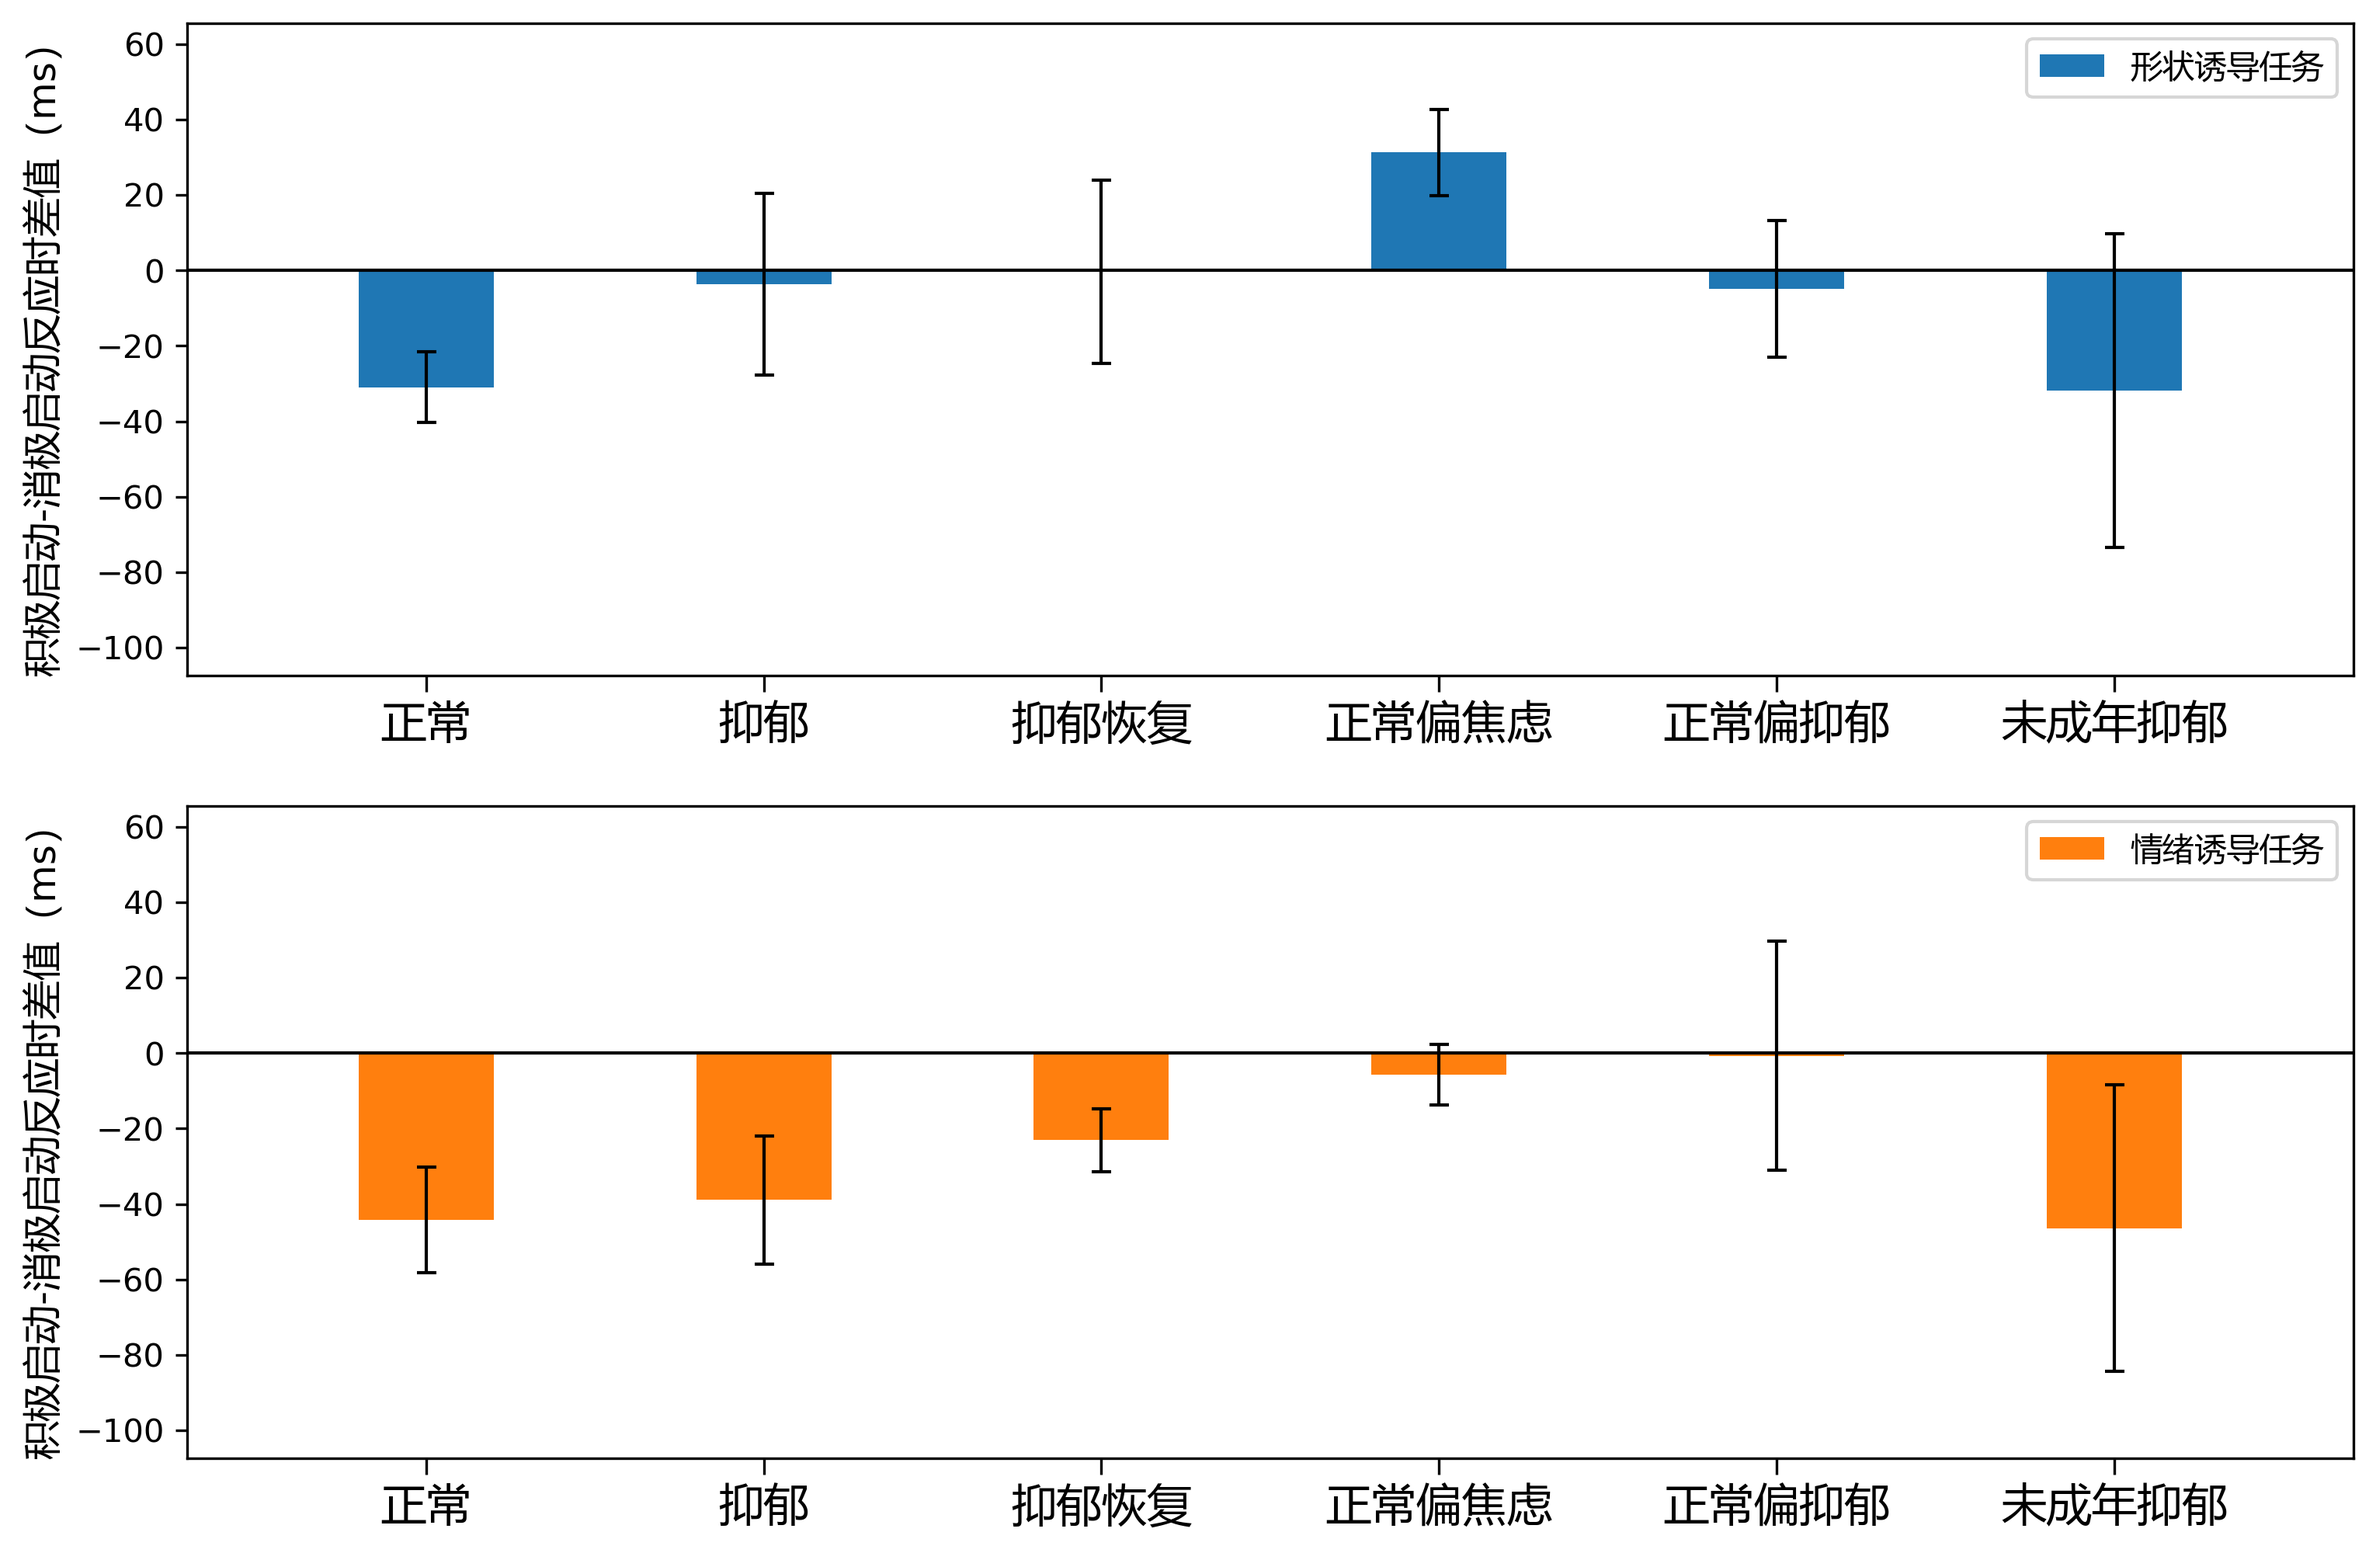
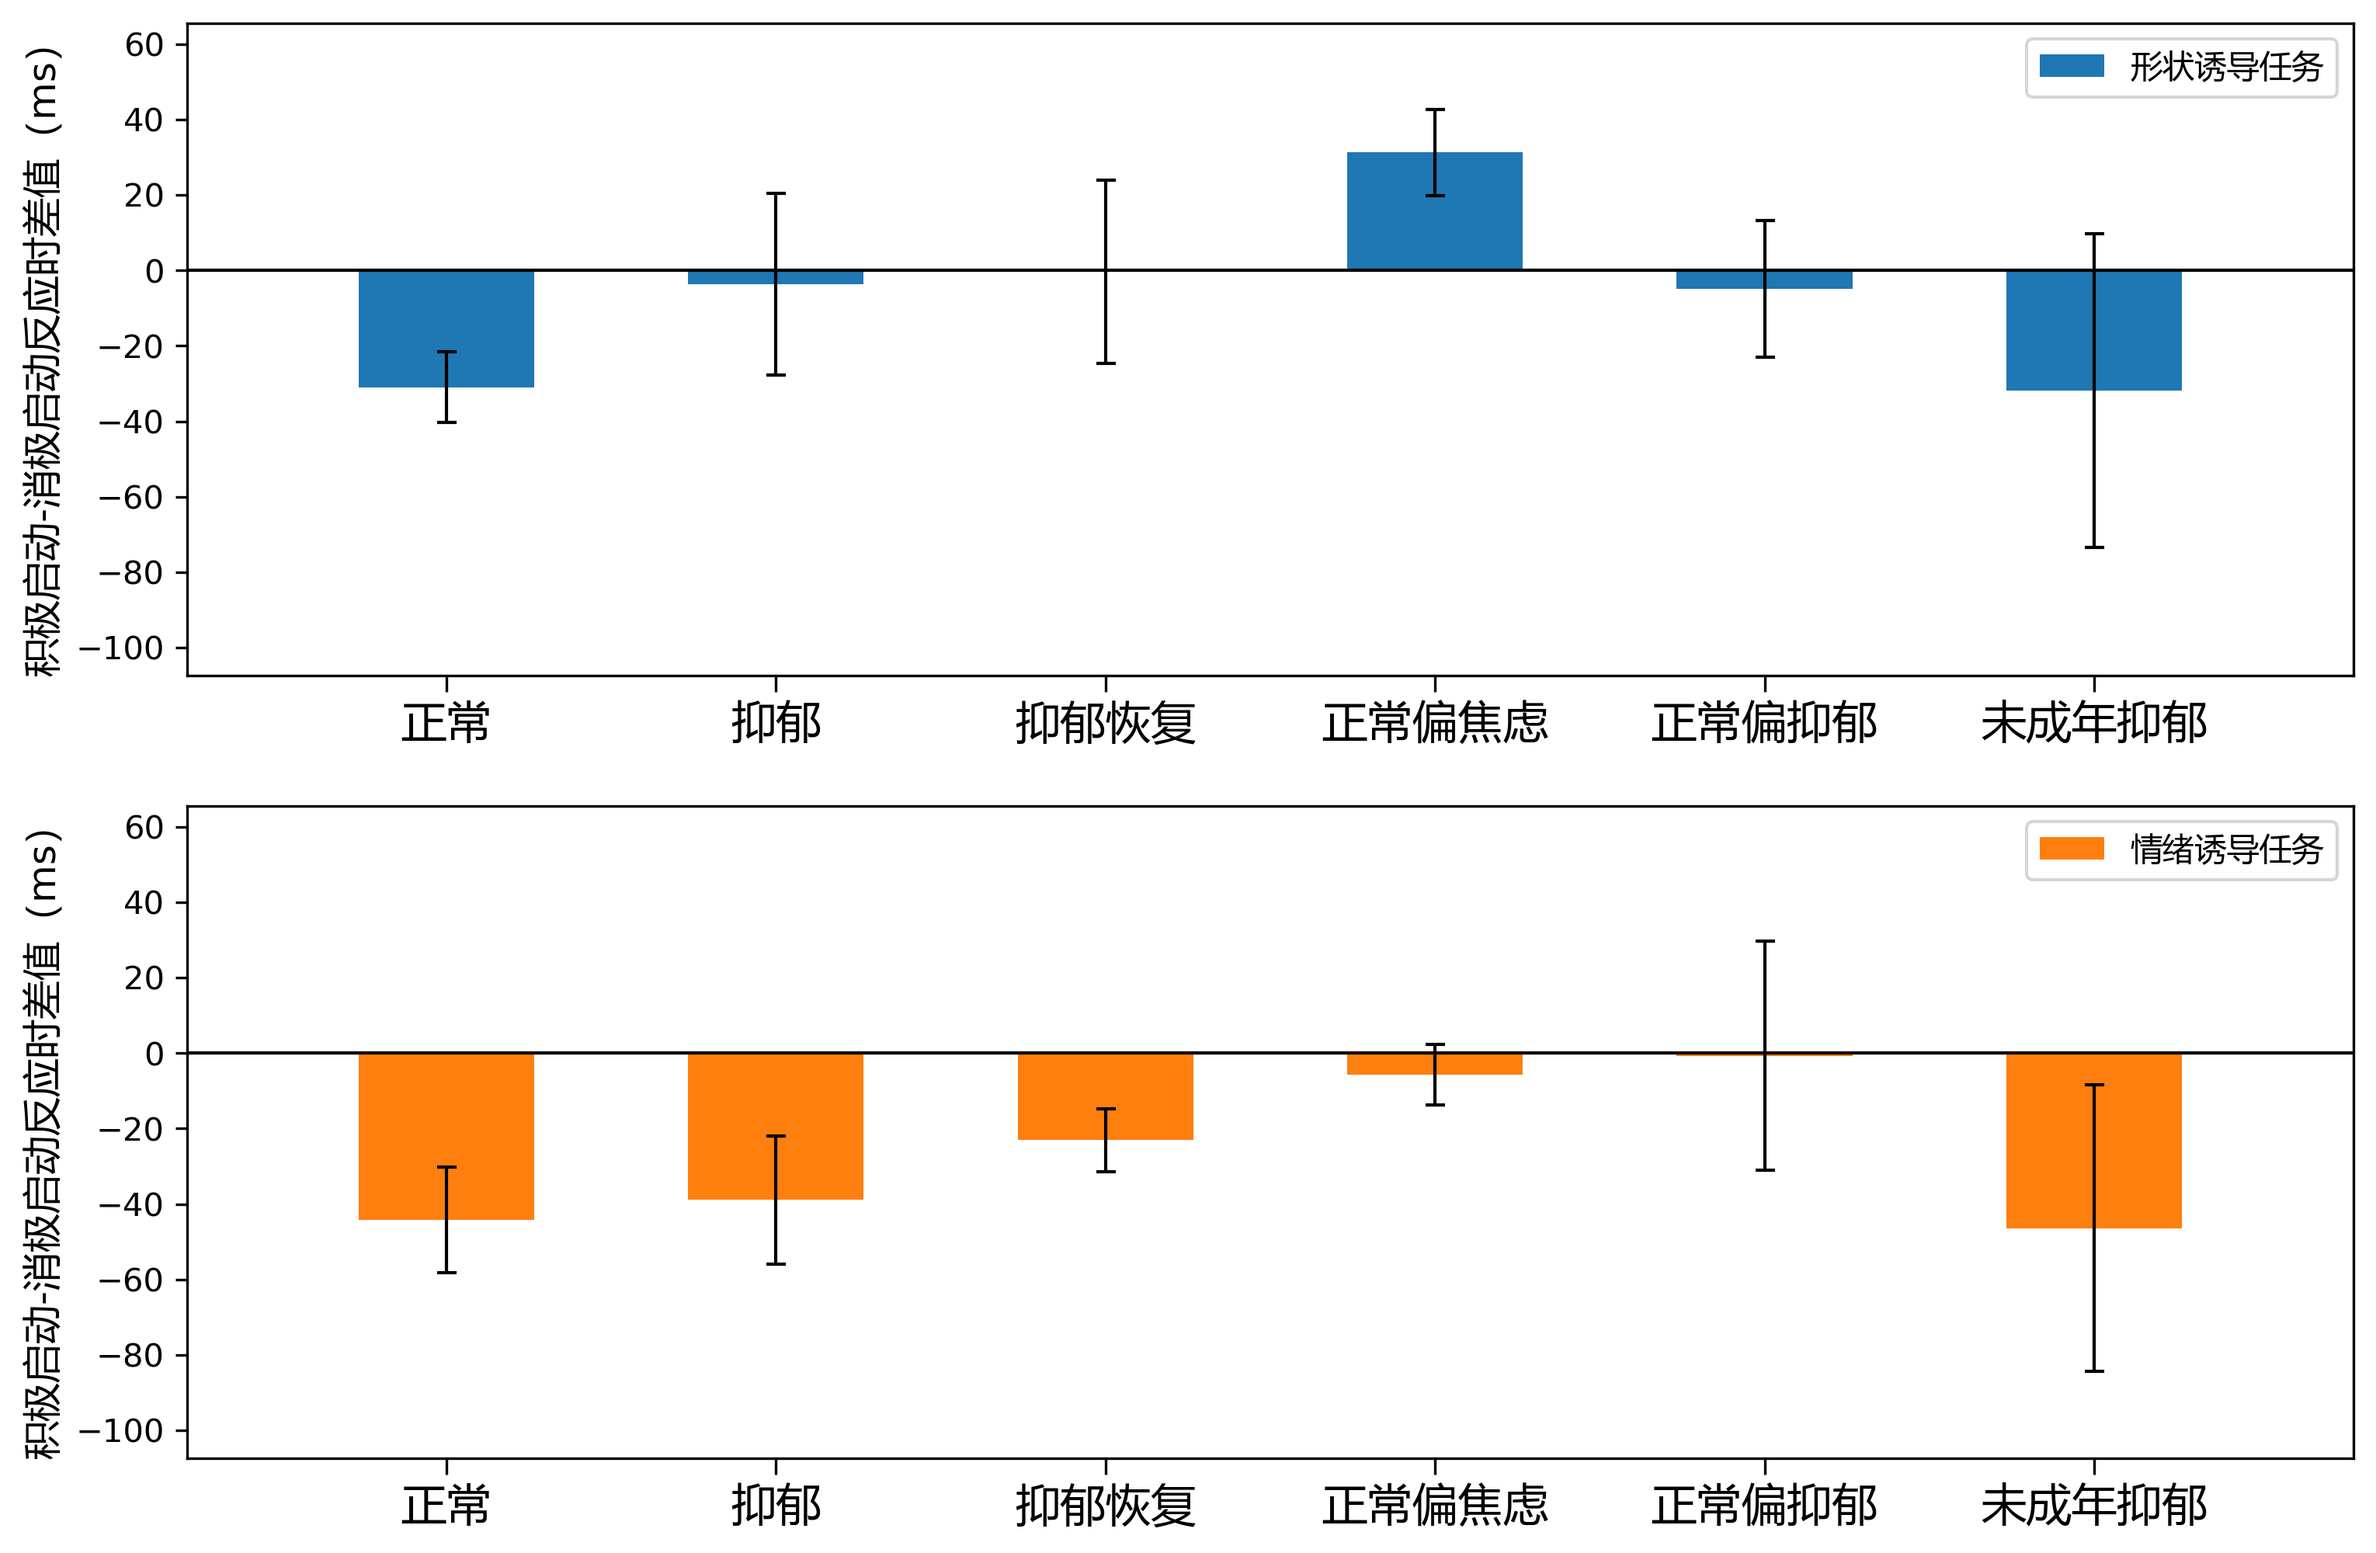
lots of fiures

diff --git a/plot_2nd.py b/plot_2nd.py
@@ -117,7 +117,7 @@ def plotFigure2():
         allDataEmotion[group] = dfGroup['emotion_pos-neg'].values
 
     y_min, y_max = (0, 0)
-    bar_width = 0.6
+    bar_width = 0.8
     
     for i, group in enumerate(groups):
         dataEmotion = allDataEmotion[group]
@@ -170,12 +170,267 @@ def plotFigure2():
     fig.savefig(os.path.join(FIGURE_PATH, 'figure2.png'), bbox_inches='tight')
     plt.close(fig)
 
+
+def plotFigure3():
+    fig = figure(figsize=(12,8))
+    ax1 = fig.add_subplot(211)
+    ax2 = fig.add_subplot(212)
+    groups = df['group'].unique()
+    allDataShape = {}
+    allDataEmotion = {}
+    
+    groups = np.setdiff1d(groups, ['抑郁恢复','未成年抑郁'])
+
+    for group in groups:
+        dfGroup = df[df['group'] == group]
+        allDataShape[group] = dfGroup['shape_pos-neg'].values
+        allDataEmotion[group] = dfGroup['emotion_pos-neg'].values
+
+    y_min, y_max = (0, 0)
+    bar_width = 0.5
+    
+    for i, group in enumerate(groups):
+        dataEmotion = allDataEmotion[group]
+        dataShape = allDataShape[group]
+        
+        # Calculate means and standard errors
+        shape_mean = np.mean(dataShape)
+        shape_error = np.std(dataShape) / np.sqrt(len(dataShape))
+        emotion_mean = np.mean(dataEmotion)
+        emotion_error = np.std(dataEmotion) / np.sqrt(len(dataEmotion))
+        if i== 0:
+            # Create bar plots instead of violin plots
+            ax1.bar(i*1.2, shape_mean, width=bar_width, yerr=shape_error, color='#1f77b4', capsize=3,error_kw = {'linewidth': 1.0}, label='形状诱导任务')
+            ax2.bar(i*1.2, emotion_mean, width=bar_width, yerr=emotion_error, color='#ff7f0e', capsize=3, error_kw = {'linewidth': 1.0}, label='情绪诱导任务')
+        else:
+            ax1.bar(i*1.2, shape_mean, width=bar_width, yerr=shape_error, color='#1f77b4', capsize=3,error_kw = {'linewidth': 1.0})
+            ax2.bar(i*1.2, emotion_mean, width=bar_width, yerr=emotion_error, color='#ff7f0e', capsize=3,error_kw = {'linewidth': 1.0})
+
+        y_min = min(y_min, shape_mean - shape_error, emotion_mean - emotion_error)
+        y_max = max(y_max, shape_mean + shape_error, emotion_mean + emotion_error)
+
+    ax1.legend()
+    ax2.legend()
+
+    for ax in [ax1, ax2]:
+        # Add horizontal line at y=0
+        ax.axhline(y=0, color='black', linestyle='-', linewidth=1.0)
+        
+        # Hide top, right and bottom spines
+        # ax.spines['top'].set_visible(False)
+        # ax.spines['right'].set_visible(False)
+        # ax.spines['bottom'].set_visible(False)
+        
+
+        ax.set_xticks([i*1.2 for i in range(len(groups))])
+        ax.set_xticklabels(groups, fontdict={'size': 14})
+        ax.tick_params(axis='x', which='both', length=5, color="#000000")
+        # ax.set_title('情绪诱导任务时阈下启动的反应时差值', fontdict={'size': 16}, pad=5)
+
+        # ax.set_title('形状诱导任务时阈下启动的反应时差值', fontdict={'size': 16}, pad=5)
+
+        x_min, x_max = ax.get_xlim()
+        dx = x_max - x_min
+        ax.set_xlim(x_min - 0.04*dx, x_max + 0.04*dx)
+        dy = y_max-y_min
+        ax.set_ylim(y_min - 0.18*dy, y_max + 0.18*dy)
+        ax.set_ylabel('积极启动-消极启动反应时差值（ms）', fontdict={'size': 12})
+    
+
+    fig.savefig(os.path.join(FIGURE_PATH, 'figure3.png'), bbox_inches='tight')
+    plt.close(fig)
+
+def plotFigure4():
+    fig = figure(figsize=(12,8))
+    ax1 = fig.add_subplot(211)
+    ax2 = fig.add_subplot(212)
+    groups = df['group'].unique()
+    allDataShapePos = {}
+    allDataShapeNeg = {}
+    
+    groups = np.setdiff1d(groups, ['抑郁恢复','未成年抑郁'])
+
+    for group in groups:
+        dfGroup = df[df['group'] == group]
+        allDataShapePos[group] = dfGroup['shapePosPrimeIndex'].values
+        allDataShapeNeg[group] = dfGroup['shapeNegPrimeIndex'].values
+
+    y_min, y_max = (0, 0)
+    bar_width = 0.6
+    
+    for i, group in enumerate(groups):
+        dataShapeNeg = allDataShapeNeg[group]
+        dataShapePos = allDataShapePos[group]
+        
+        # Calculate means and standard errors
+        shapePos_mean = np.mean(dataShapePos)
+        shapePos_error = np.std(dataShapePos) / np.sqrt(len(dataShapePos))
+        ShapeNeg_mean = np.mean(dataShapeNeg)
+        ShapeNeg_error = np.std(dataShapeNeg) / np.sqrt(len(dataShapeNeg))
+        if i== 0:
+            # Create bar plots instead of violin plots
+            ax1.bar(i*1.2, shapePos_mean, width=bar_width, yerr=shapePos_error, color='#1f77b4', capsize=3,error_kw = {'linewidth': 1.0}, label='积极启动')
+            ax2.bar(i*1.2, ShapeNeg_mean, width=bar_width, yerr=ShapeNeg_error, color='#ff7f0e', capsize=3, error_kw = {'linewidth': 1.0}, label='消极启动')
+        else:
+            ax1.bar(i*1.2, shapePos_mean, width=bar_width, yerr=shapePos_error, color='#1f77b4', capsize=3,error_kw = {'linewidth': 1.0})
+            ax2.bar(i*1.2, ShapeNeg_mean, width=bar_width, yerr=ShapeNeg_error, color='#ff7f0e', capsize=3,error_kw = {'linewidth': 1.0})
+
+        y_min = min(y_min, shapePos_mean - shapePos_error, ShapeNeg_mean - ShapeNeg_error)
+        y_max = max(y_max, shapePos_mean + shapePos_error, ShapeNeg_mean + ShapeNeg_error)
+
+    ax1.legend()
+    ax2.legend()
+
+    for ax in [ax1, ax2]:
+        # Add horizontal line at y=0
+        ax.axhline(y=0, color='black', linestyle='-', linewidth=1.0)
+        
+        # Hide top, right and bottom spines
+        # ax.spines['top'].set_visible(False)
+        # ax.spines['right'].set_visible(False)
+        # ax.spines['bottom'].set_visible(False)
+        
+
+        ax.set_xticks([i*1.2 for i in range(len(groups))])
+        ax.set_xticklabels(groups, fontdict={'size': 14})
+        ax.tick_params(axis='x', which='both', length=5, color="#000000")
+        # ax.set_title('情绪诱导任务时阈下启动的反应时差值', fontdict={'size': 16}, pad=5)
+
+        # ax.set_title('形状诱导任务时阈下启动的反应时差值', fontdict={'size': 16}, pad=5)
+
+        x_min, x_max = ax.get_xlim()
+        dx = x_max - x_min
+        ax.set_xlim(x_min - 0.04*dx, x_max + 0.04*dx)
+        dy = y_max-y_min
+        ax.set_ylim(y_min - 0.18*dy, y_max + 0.18*dy)
+    ax1.set_ylabel('形状诱导任务积极阈下启动效应', fontdict={'size': 12})
+    ax2.set_ylabel('形状诱导任务消极阈下启动效应', fontdict={'size': 12})
+
+    fig.savefig(os.path.join(FIGURE_PATH, 'figure4.png'), bbox_inches='tight')
+    plt.close(fig)
+
+def plotFigure5():
+    fig = figure(figsize=(12,8))
+    ax1 = fig.add_subplot(211)
+    ax2 = fig.add_subplot(212)
+    groups = df['group'].unique()
+    allDataEmotionPos = {}
+    allDataEmotionNeg = {}
+    
+    groups = np.setdiff1d(groups, ['抑郁恢复','未成年抑郁'])
+
+    for group in groups:
+        dfGroup = df[df['group'] == group]
+        allDataEmotionPos[group] = dfGroup['emoPosPrimeIndex'].values
+        allDataEmotionNeg[group] = dfGroup['emoNegPrimeIndex'].values
+
+    y_min, y_max = (0, 0)
+    bar_width = 0.6
+    
+    for i, group in enumerate(groups):
+        dataEmotionNeg = allDataEmotionNeg[group]
+        dataEmotionPos = allDataEmotionPos[group]
+        
+        # Calculate means and standard errors
+        EmotionPos_mean = np.mean(dataEmotionPos)
+        EmotionPos_error = np.std(dataEmotionPos) / np.sqrt(len(dataEmotionPos))
+        EmotionNeg_mean = np.mean(dataEmotionNeg)
+        EmotionNeg_error = np.std(dataEmotionNeg) / np.sqrt(len(dataEmotionNeg))
+        if i== 0:
+            # Create bar plots instead of violin plots
+            ax1.bar(i*1.2, EmotionPos_mean, width=bar_width, yerr=EmotionPos_error, color='#1f77b4', capsize=3,error_kw = {'linewidth': 1.0}, label='积极启动')
+            ax2.bar(i*1.2, EmotionNeg_mean, width=bar_width, yerr=EmotionNeg_error, color='#ff7f0e', capsize=3, error_kw = {'linewidth': 1.0}, label='消极启动')
+        else:
+            ax1.bar(i*1.2, EmotionPos_mean, width=bar_width, yerr=EmotionPos_error, color='#1f77b4', capsize=3,error_kw = {'linewidth': 1.0})
+            ax2.bar(i*1.2, EmotionNeg_mean, width=bar_width, yerr=EmotionNeg_error, color='#ff7f0e', capsize=3,error_kw = {'linewidth': 1.0})
+
+        y_min = min(y_min, EmotionPos_mean - EmotionPos_error, EmotionNeg_mean - EmotionNeg_error)
+        y_max = max(y_max, EmotionPos_mean + EmotionPos_error, EmotionNeg_mean + EmotionNeg_error)
+
+    ax1.legend()
+    ax2.legend()
+
+    for ax in [ax1, ax2]:
+        # Add horizontal line at y=0
+        ax.axhline(y=0, color='black', linestyle='-', linewidth=1.0)
+        
+        # Hide top, right and bottom spines
+        # ax.spines['top'].set_visible(False)
+        # ax.spines['right'].set_visible(False)
+        # ax.spines['bottom'].set_visible(False)
+        
+
+        ax.set_xticks([i*1.2 for i in range(len(groups))])
+        ax.set_xticklabels(groups, fontdict={'size': 14})
+        ax.tick_params(axis='x', which='both', length=5, color="#000000")
+        # ax.set_title('情绪诱导任务时阈下启动的反应时差值', fontdict={'size': 16}, pad=5)
+
+        # ax.set_title('形状诱导任务时阈下启动的反应时差值', fontdict={'size': 16}, pad=5)
+
+        x_min, x_max = ax.get_xlim()
+        dx = x_max - x_min
+        ax.set_xlim(x_min - 0.04*dx, x_max + 0.04*dx)
+        dy = y_max-y_min
+        ax.set_ylim(y_min - 0.18*dy, y_max + 0.18*dy)
+    ax1.set_ylabel('情绪诱导任务积极阈下启动效应', fontdict={'size': 12})
+    ax2.set_ylabel('情绪诱导任务消极阈下启动效应', fontdict={'size': 12})
+
+    fig.savefig(os.path.join(FIGURE_PATH, 'figure5.png'), bbox_inches='tight')
+    plt.close(fig)
+
+def plotCorrelation():
+    import seaborn as sns
+    import matplotlib.pyplot as plt
+
+    from scipy.stats import pearsonr
+
+    scales = ['shape_pos-neg', 'emotion_pos-neg', 'shapePosPrimeIndex', 'shapeNegPrimeIndex', 'emoPosPrimeIndex', 'emoNegPrimeIndex', 'anxiety', 'depression', 'hamd']
+
+    # 创建 PairGrid
+    g = sns.PairGrid(df[scales])
+
+    # 在下三角绘制散点图并添加趋势线和置信区间
+    g.map_lower(sns.regplot, scatter_kws={'alpha': 0.6}, line_kws={'color': '#A55F89'})
+
+    # 在对角线绘制核密度估计图
+    g.map_diag(sns.kdeplot, fill=True)
+
+    # 在上三角标注相关系数和显著性水平
+    def corr_func(x, y, **kws):
+        r, p = pearsonr(x, y)  # 计算 Pearson 相关系数和 p 值
+        ax = plt.gca()
+        ax.annotate(f'r = {r:.2f}\np = {p:.3f}', xy=(0.5, 0.5), xycoords='axes fraction', 
+                    ha='center', va='center', fontsize=18, color='#5074B0')
+
+    g.map_upper(corr_func)
+
+    # 调整坐标轴标签和刻度标签的大小
+    for ax in g.axes.flatten():
+        # 设置 x 轴和 y 轴标签的大小
+        ax.set_xlabel(ax.get_xlabel(), fontsize=20,rotation=45)
+        ax.set_ylabel(ax.get_ylabel(), fontsize=20,rotation=45)
+
+        # 设置 x 轴和 y 轴刻度标签的大小
+        ax.tick_params(axis='both', labelsize=15)
+    
+
+# 添加标题
+# plt.suptitle('Pairplot of Scales with Trend Lines and Correlation', y=1.02)
+
+    plt.savefig(os.path.join(FIGURE_PATH, 'figure6.png'), bbox_inches='tight')
+    plt.close()
+
+
 def main():
     setPath()
     readData(fileDir=RESULT_PATH)
     deletePreviewsFigures(path=FIGURE_PATH)
     plotFigure1()
     plotFigure2()
+    plotFigure3()
+    plotFigure4()
+    plotFigure5()
+    plotCorrelation()
 
 if __name__ == '__main__':
     main()
